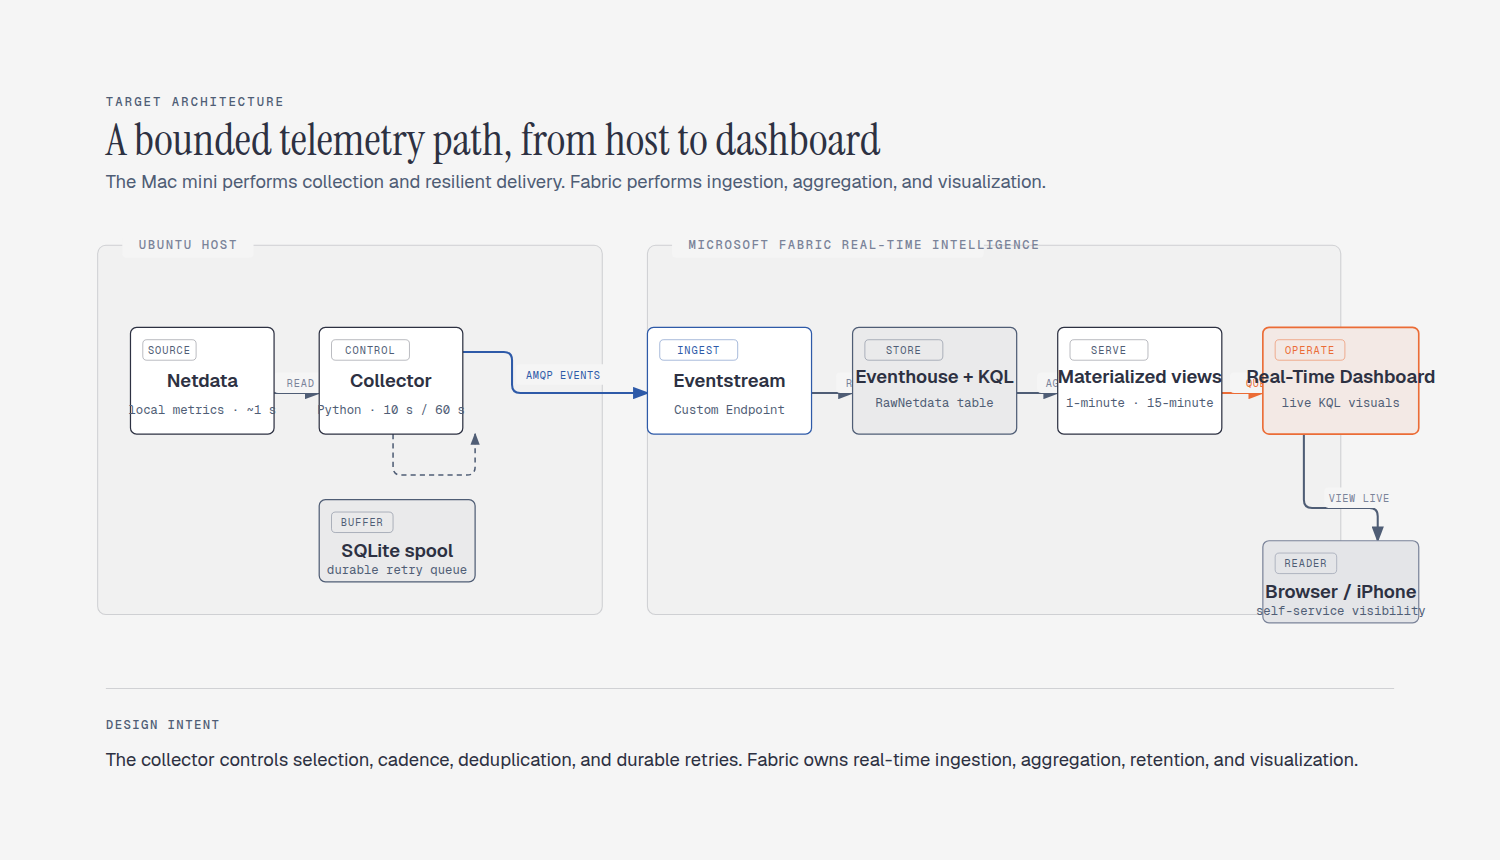
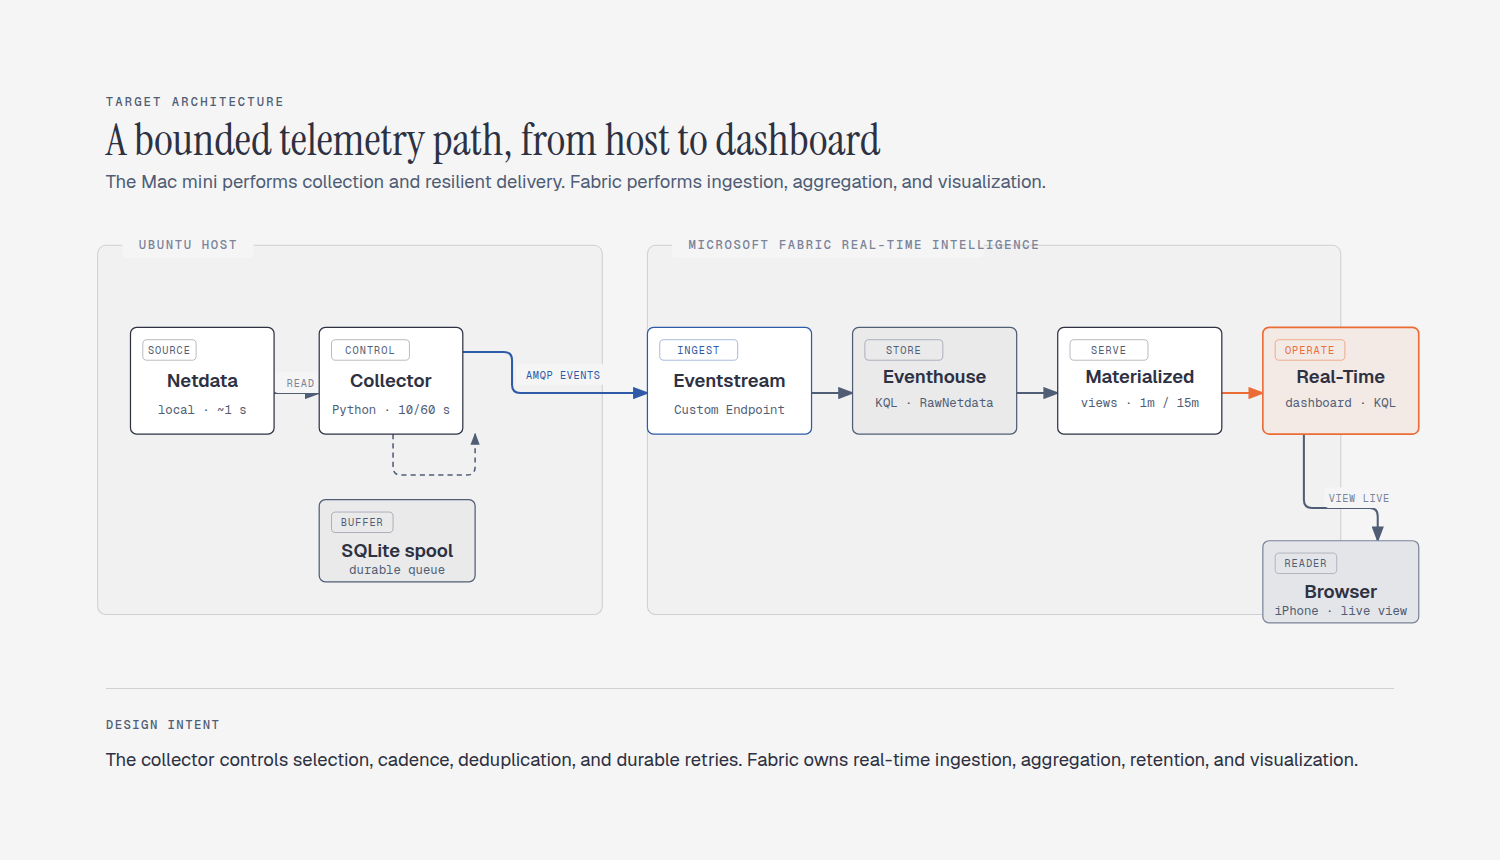
diagram: improve architecture label spacing

diff --git a/diagrams/netdata-fabric-target-architecture.html b/diagrams/netdata-fabric-target-architecture.html
@@ -218,42 +218,6 @@
       >
         AMQP EVENTS
       </text>
-      <rect x="784" y="332" width="52" height="20" rx="4" fill="#f5f5f5" />
-      <text
-        x="810"
-        y="346"
-        text-anchor="middle"
-        fill="#7a8399"
-        font-family="Geist Mono, monospace"
-        font-size="10"
-        letter-spacing=".6"
-      >
-        ROUTE
-      </text>
-      <rect x="980" y="332" width="76" height="20" rx="4" fill="#f5f5f5" />
-      <text
-        x="1018"
-        y="346"
-        text-anchor="middle"
-        fill="#7a8399"
-        font-family="Geist Mono, monospace"
-        font-size="10"
-        letter-spacing=".6"
-      >
-        AGGREGATE
-      </text>
-      <rect x="1168" y="332" width="64" height="20" rx="4" fill="#f5f5f5" />
-      <text
-        x="1200"
-        y="346"
-        text-anchor="middle"
-        fill="#eb6c36"
-        font-family="Geist Mono, monospace"
-        font-size="10"
-        letter-spacing=".6"
-      >
-        QUERY
-      </text>
       <rect x="1260" y="444" width="68" height="20" rx="4" fill="#f5f5f5" />
       <text
         x="1294"
@@ -320,7 +284,7 @@
           font-family="Geist Mono, monospace"
           font-size="12"
         >
-          local metrics · ~1 s
+          local · ~1 s
         </text>
       </g>
       <g>
@@ -375,7 +339,7 @@
           font-family="Geist Mono, monospace"
           font-size="12"
         >
-          Python · 10 s / 60 s
+          Python · 10/60 s
         </text>
       </g>
       <g>
@@ -430,7 +394,7 @@
           font-family="Geist Mono, monospace"
           font-size="12"
         >
-          durable retry queue
+          durable queue
         </text>
       </g>
       <g>
@@ -530,7 +494,7 @@
           font-size="18"
           font-weight="600"
         >
-          Eventhouse + KQL
+          Eventhouse
         </text>
         <text
           x="880"
@@ -540,7 +504,7 @@
           font-family="Geist Mono, monospace"
           font-size="12"
         >
-          RawNetdata table
+          KQL · RawNetdata
         </text>
       </g>
       <g>
@@ -585,7 +549,7 @@
           font-size="18"
           font-weight="600"
         >
-          Materialized views
+          Materialized
         </text>
         <text
           x="1080"
@@ -595,7 +559,7 @@
           font-family="Geist Mono, monospace"
           font-size="12"
         >
-          1-minute · 15-minute
+          views · 1m / 15m
         </text>
       </g>
       <g>
@@ -640,7 +604,7 @@
           font-size="18"
           font-weight="600"
         >
-          Real-Time Dashboard
+          Real-Time
         </text>
         <text
           x="1276"
@@ -650,7 +614,7 @@
           font-family="Geist Mono, monospace"
           font-size="12"
         >
-          live KQL visuals
+          dashboard · KQL
         </text>
       </g>
       <g>
@@ -695,7 +659,7 @@
           font-size="18"
           font-weight="600"
         >
-          Browser / iPhone
+          Browser
         </text>
         <text
           x="1276"
@@ -705,7 +669,7 @@
           font-family="Geist Mono, monospace"
           font-size="12"
         >
-          self-service visibility
+          iPhone · live view
         </text>
       </g>
 
